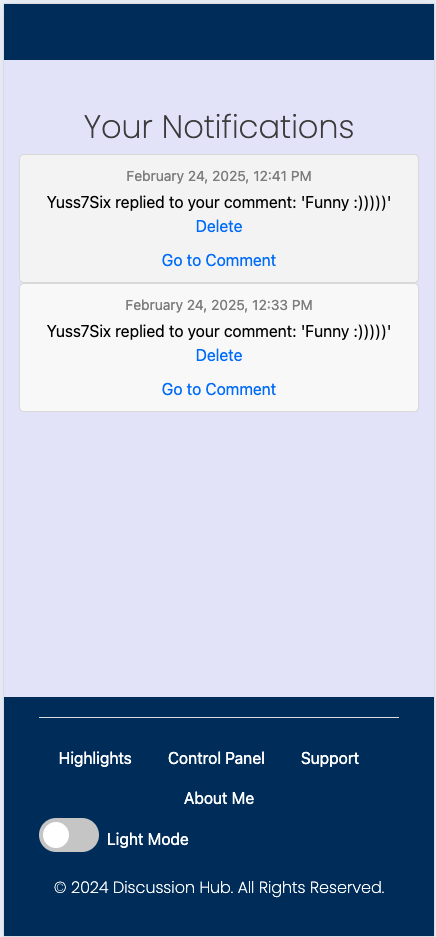
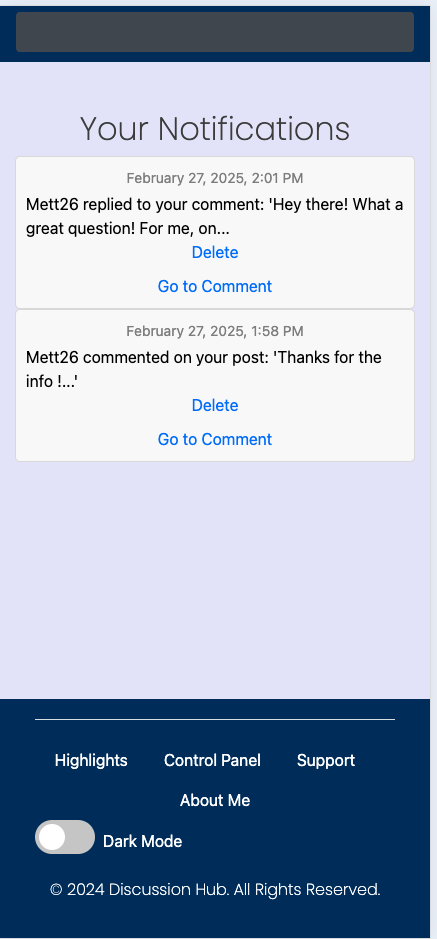
Add js testing section to the readme file and at the same time update the notification pictures, both for light and dark mode

diff --git a/static/js/theme-toggle.js b/static/js/theme-toggle.js
@@ -1,8 +1,9 @@
-// This script handles the theme toggle functionality for the website.
+// This script handles the theme toggle functionality (dark/light mode) for the website.
 // It checks the user's saved theme preference in local storage and 
 // applies dark mode if the preference is set. It also updates the 
 // webpage based on user interactions with the theme toggle switch, 
 // saving the new preference in local storage for future visits.
+// Automatically hide alert messages after a specified timeout
 
 document.addEventListener('DOMContentLoaded', function () {
     const themeToggle = document.getElementById('theme-toggle');

diff --git a/README.md b/README.md
@@ -804,7 +804,18 @@ If there are no notifications, users will simply see a message stating that ther
 *Delete Notification*<br>
 ![Delete Notification](static/images/screenshots/deletenotification.png)
 
-* In the Notifications Page, users will see notifications for replies to comments they have posted on various forum posts. If a user has notifications, they will see messages formatted as follows: "User [username] replied to your comment: [main comment content]." Each notification will include the date and time of the reply.Users will also have options to Delete the notification or Go to the comment, allowing them to manage their interactions effectively.
+On the Notifications Page, users will see notifications for interactions related to their comments on various forum posts. The notifications will inform users about two primary interactions: replies to comments they have posted and comments made on their posts. If a user has notifications, they will see messages formatted as follows:
+
+1. Reply Notifications:
+
+"User [username] replied to your comment: [main comment content]."
+Each reply notification will include the date and time of the reply.
+
+2. Comment Notifications:
+
+"User [username] commented on your post: [post title or content]."
+Each comment notification will also include the date and time of the comment.
+Users will have options to Delete the notification or Go to the comment/post, allowing them to manage their interactions effectively.
 
 *Notification Page with Notification Desktop*<br>
 ![Notification Page with Notification Desktop](static/images/screenshots/messagenotificationdesktop.png)
@@ -1217,7 +1228,7 @@ Go to Comment: This option will link the user directly to the specific comment t
 Before arriving at this page, logged-in users will notice a bell icon next to the notifications link in the navbar, indicating that there are new notifications to check.
 
 *Notifications Page Dark Mode Desktop*<br>
-![Notifications Page Dark Mode Desktop](static/images/screenshots/darkmodewithnotificationdesktop.png)
+![Notifications Page Dark Mode Desktop](static/images/screenshots/darkmodenotificationdesktop.png)
 
 *Notifications Page Dark Mode Mobile*<br>
 ![Notifications Page Dark Mode Mobile](static/images/screenshots/darkmodenotificationmobile.png)
@@ -1796,6 +1807,27 @@ Summary of Changes Needed
 
 *Password Reset Page Validator*<br>
 ![Password Reset Page Validator](static/images/screenshots/passwordresetvalidator.png)
+
+## JavaScript Testing
+
+- The JavaScript code has been validated using [JSHint](https://jshint.com/ "JSHint") and produced the following results.
+
+- The theme-toggle.js file was originally created with the primary purpose of managing the dark mode style for the website. Initially, there were no plans to include additional functionalities within this file. However, to ensure that the project worked properly, I utilized the file to accommodate some small additional functionalities. I decided to retain the original name to reflect its initial purpose, even though it now encompasses a broader range of operations. 
+
+Importantly, these changes do not affect or create any issues with the existing code. The file remains well-structured, maintaining clarity and functionality. The integration of the additional functionalities has been executed in a way that improves the overall user experience without compromising the original purpose of the file.
+
+* Theme-toggle.js*<br>
+![JSHint result](static/images/screenshots/jstestfile.png)
+
+- JSHint Warnings and Code Metrics Explained
+
+When you run JSHint on this project, you might see warnings about ES6 features. Don't worry – these aren't errors in your code. They just show that we're using modern JavaScript.
+
+These warnings mention things like 'const', 'let', arrow functions (=>), and the spread operator (...). All of these are part of ES6, which is a newer version of JavaScript.
+
+JSHint is telling us that we're using these new features. If you're building for modern browsers or recent versions of Node.js, you can ignore these warnings. Your code will work fine.
+
+Important Note: Despite these warnings, the code is functioning correctly and as intended. There's no need for intervention or changes based on these JSHint warnings alone. The code is working well in its current state.
 
 ## LightHouse Test
 
